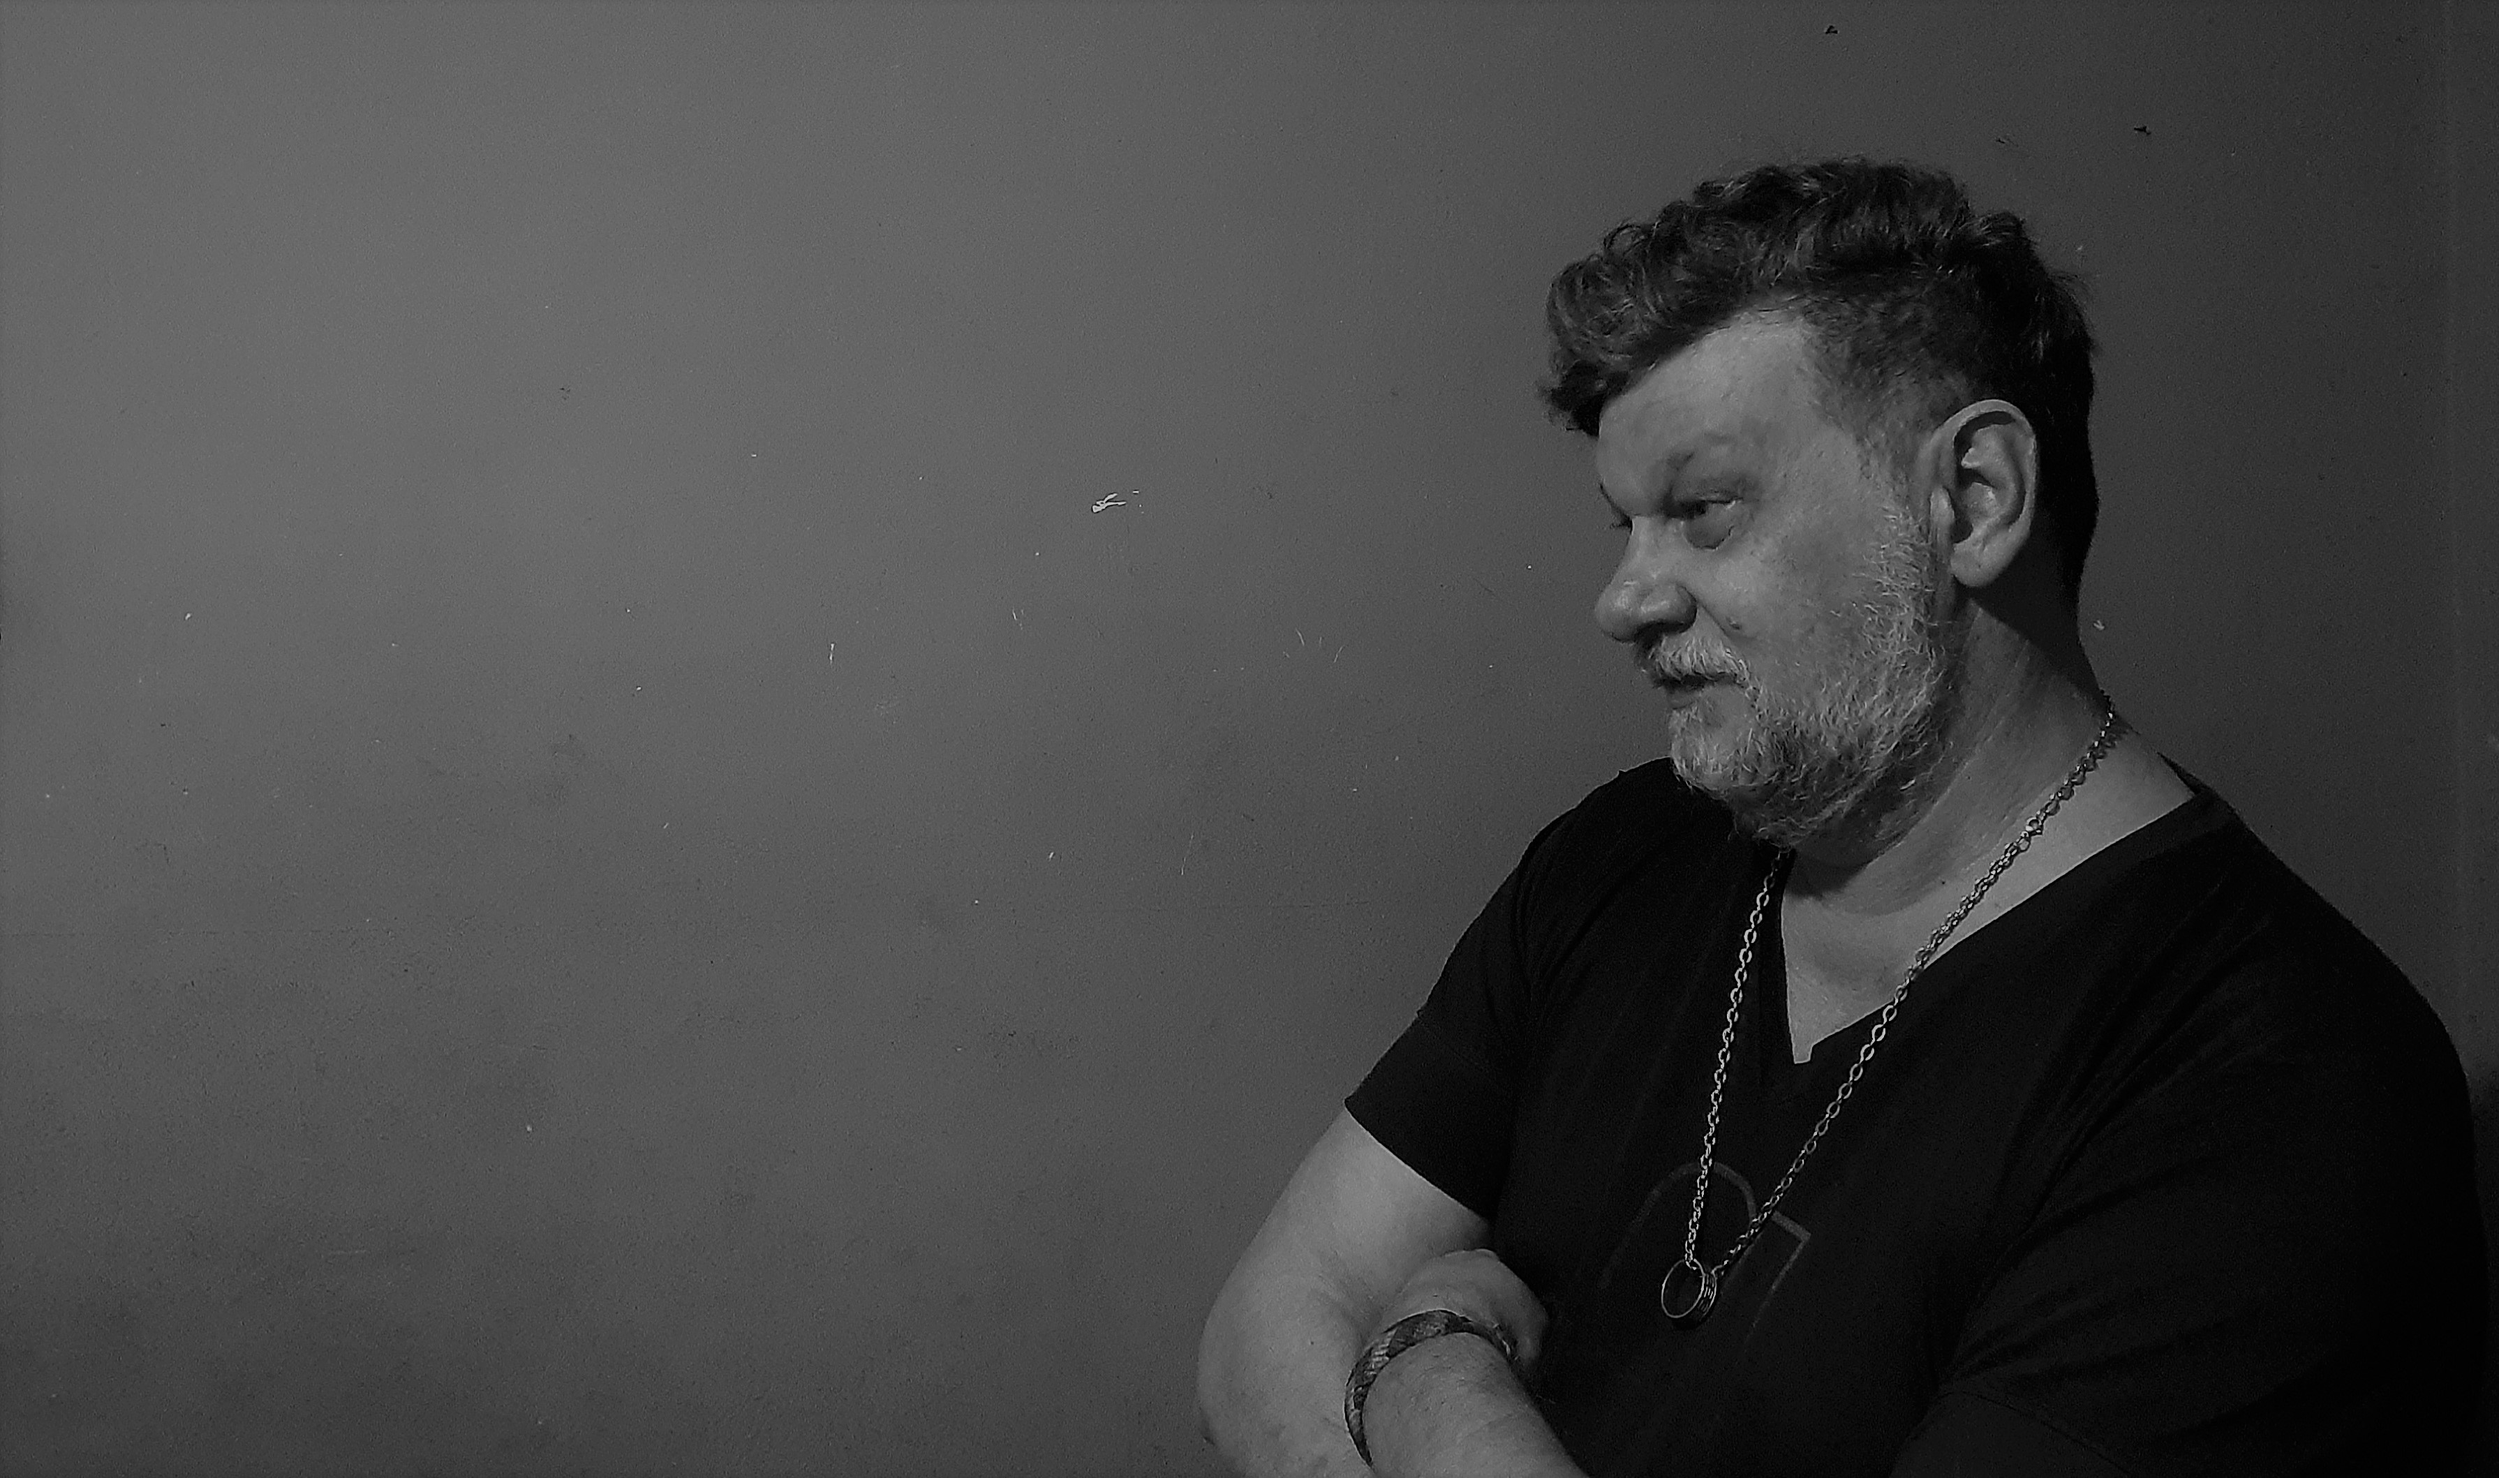
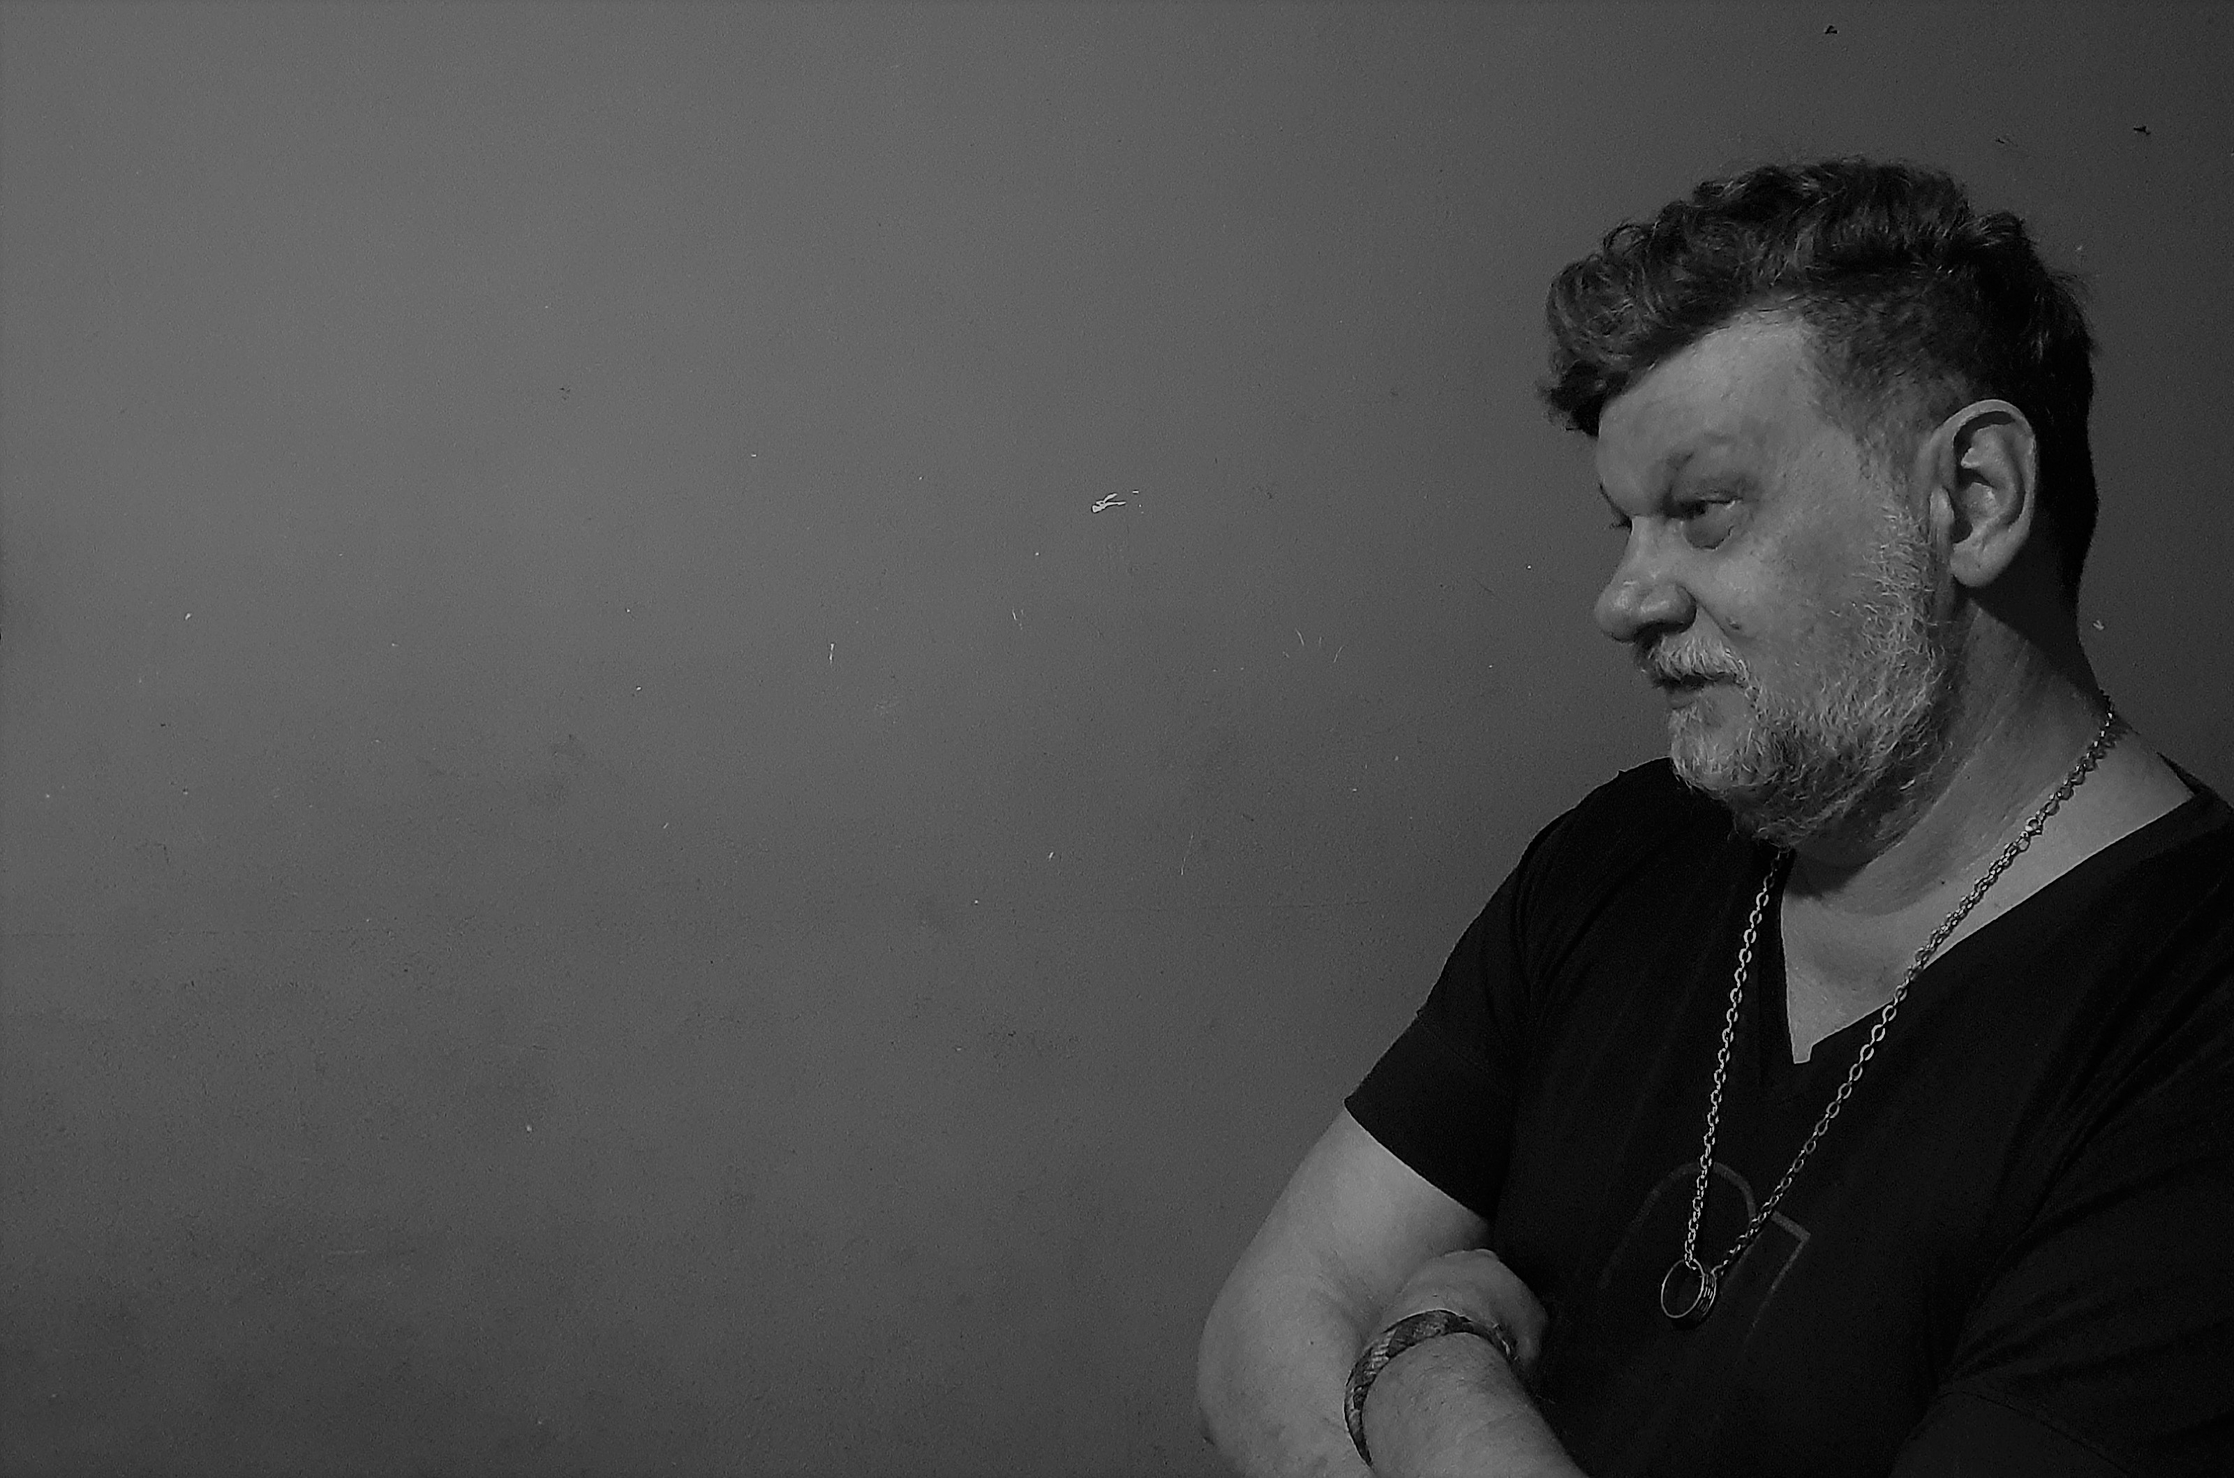
fixed hero image

Changed region(s): [[0.4686, 0.0935, 1.0, 1.0], [0.781, 0.8102, 0.8122, 0.8414], [0.7498, 0.8414, 0.781, 0.8725]]

diff --git a/assets/css/style.css b/assets/css/style.css
@@ -18,7 +18,7 @@ body {
 body::before {
   content: "";
   position: fixed;
-  background: #040404 url("../img/hero-caito.jpg") top right no-repeat;
+  background: #040404 url("../img/hero-caito2.jpg") top right no-repeat;
   background-size: cover;
   left: 0;
   right: 0;
